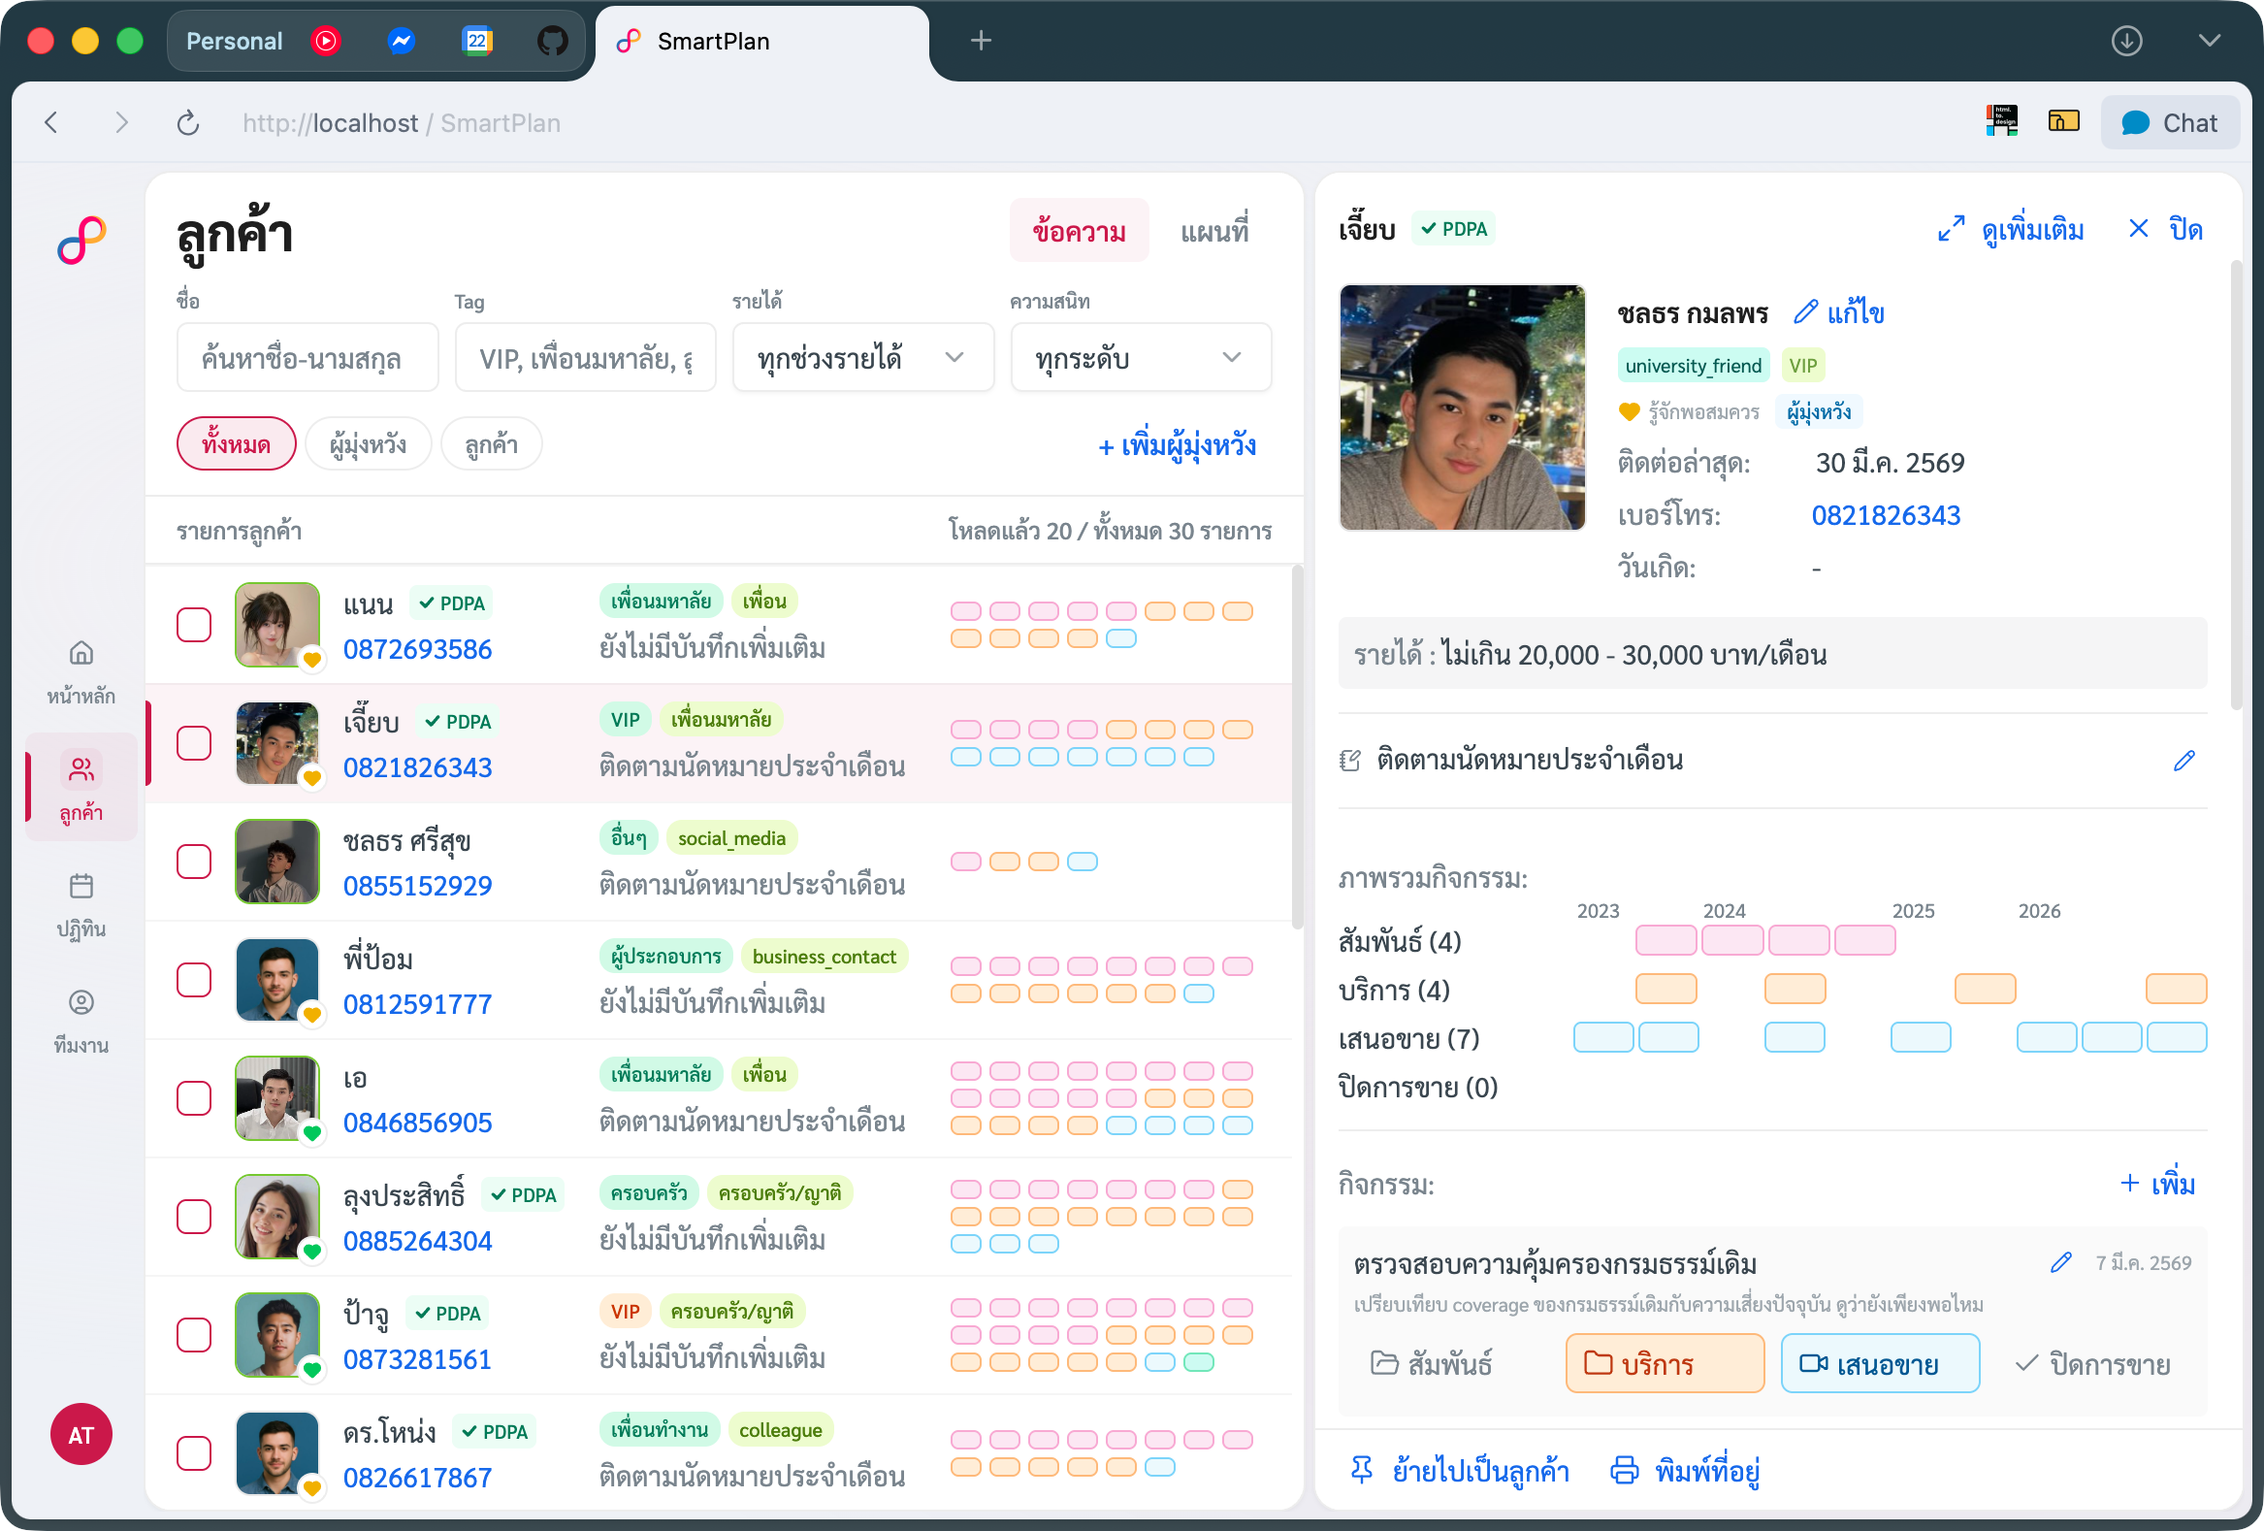
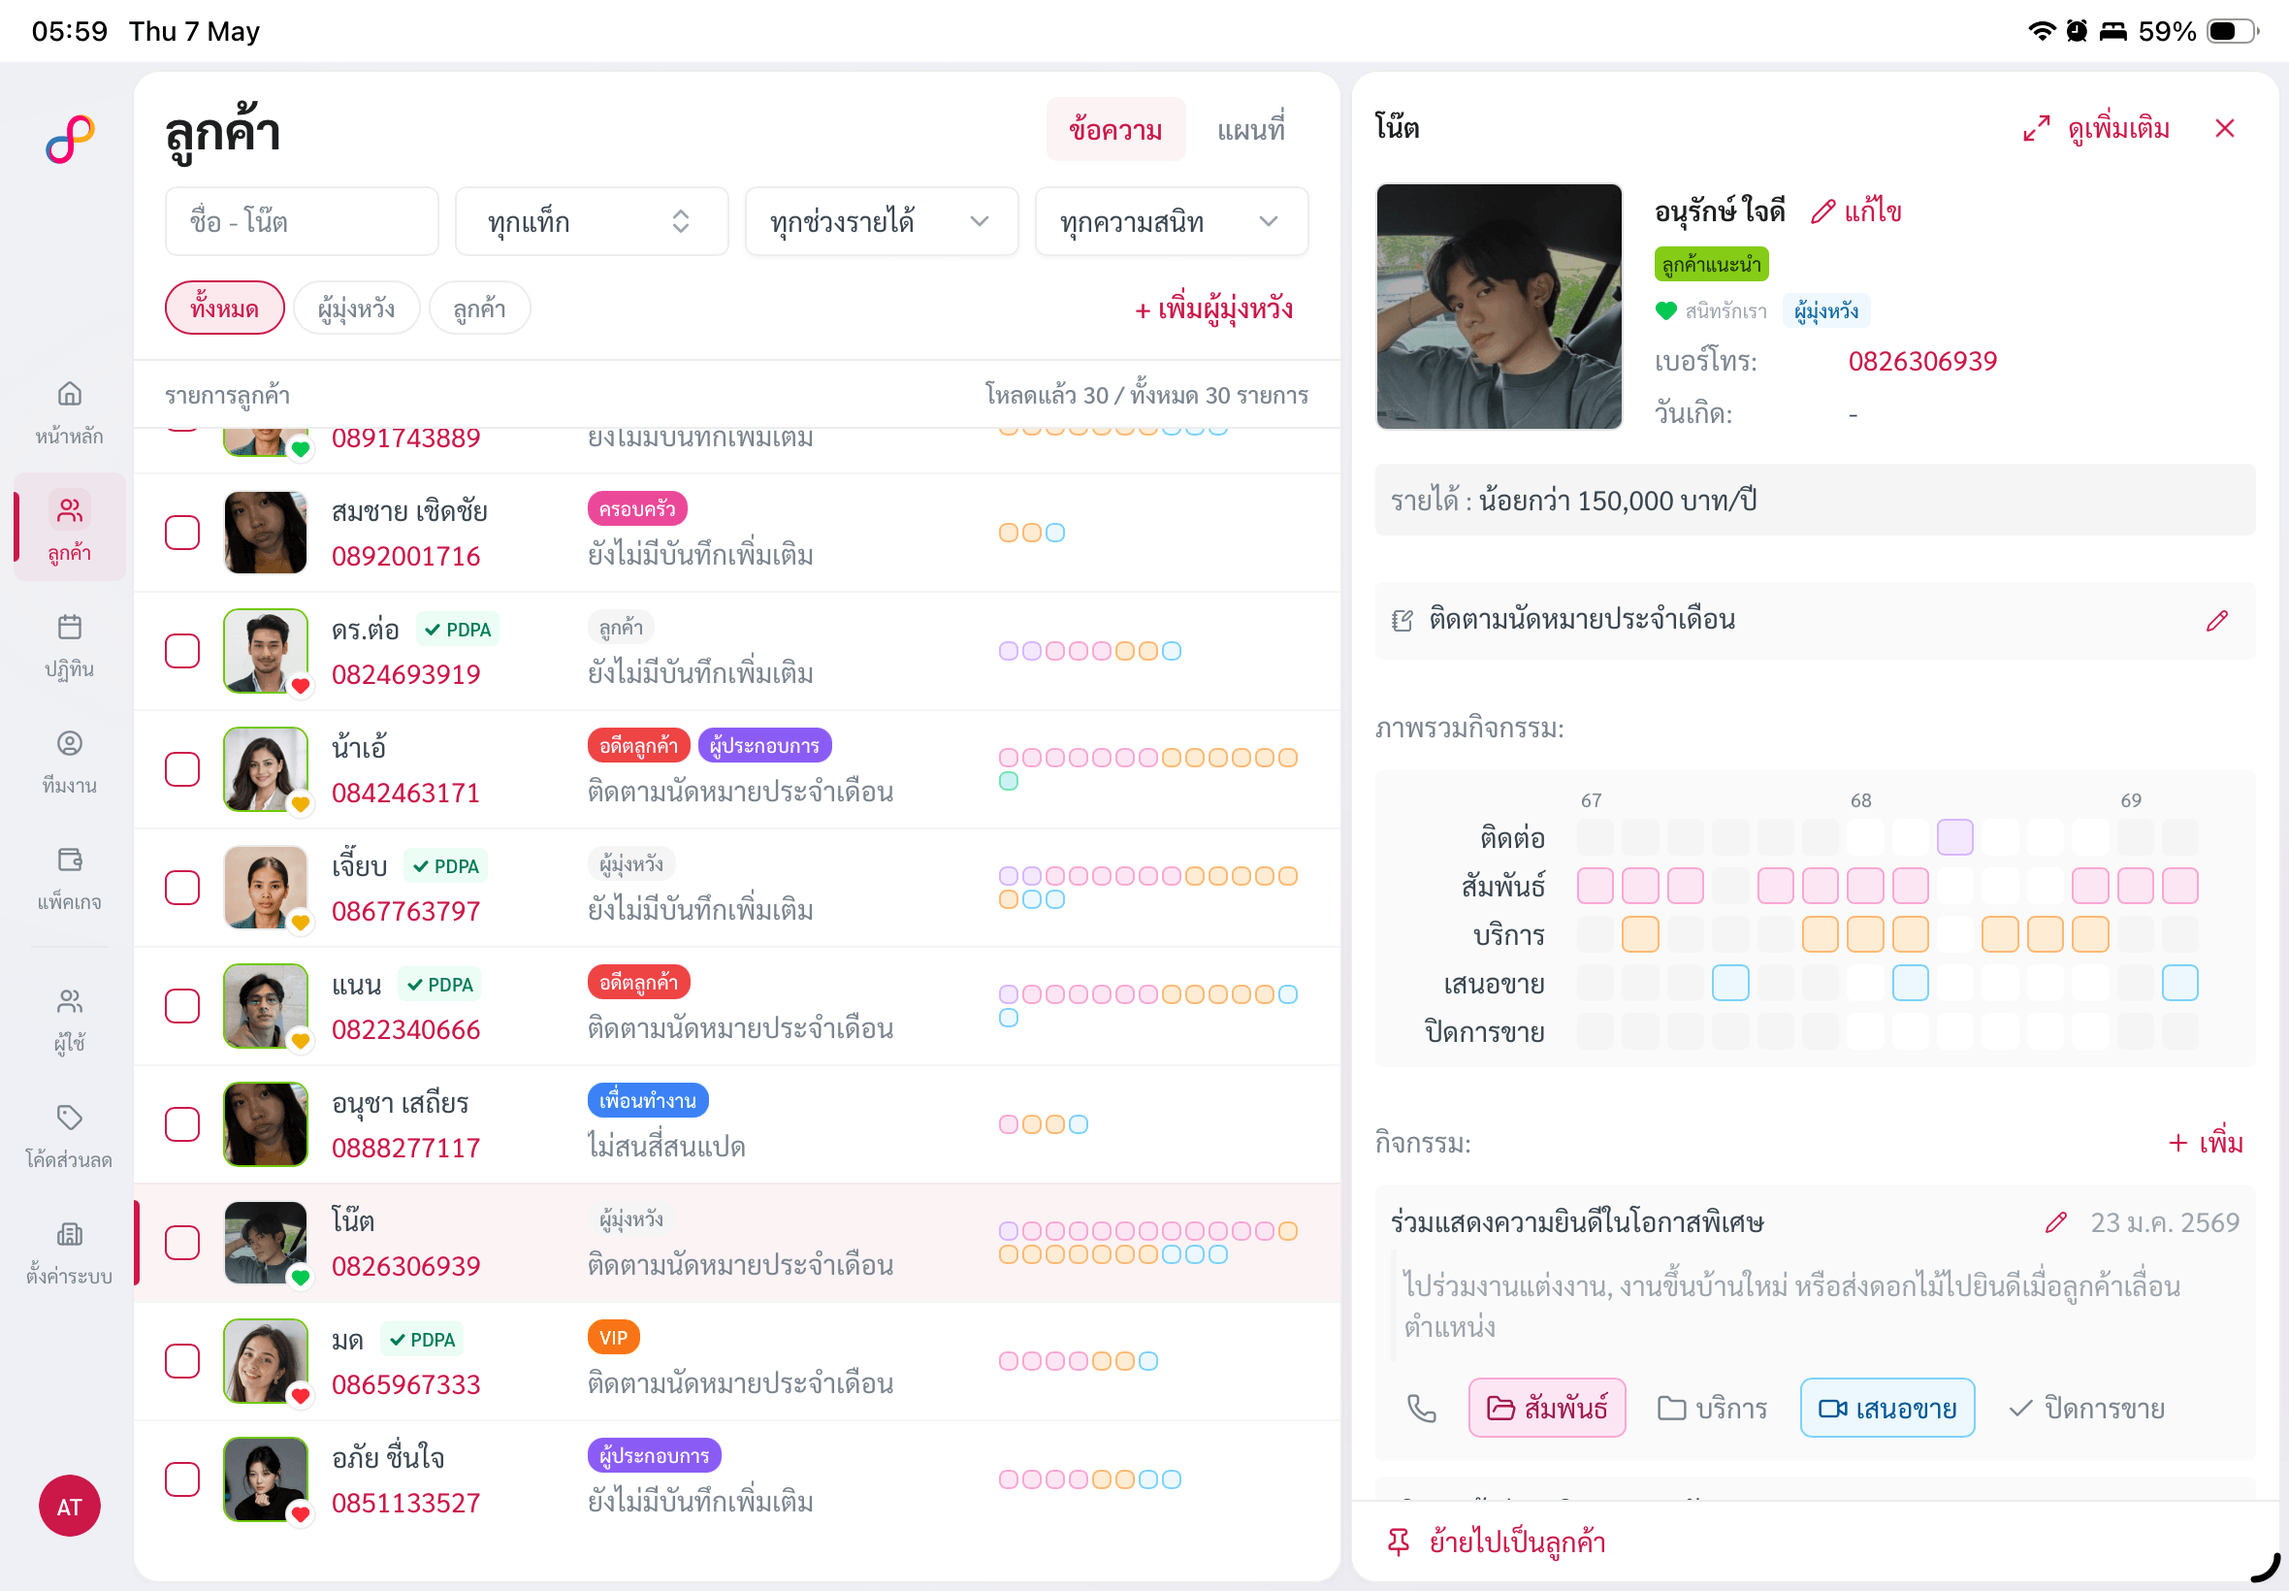
feat: Add design context and survey insights for insurance agents

diff --git a/research/survey.md b/research/survey.md
@@ -1,0 +1,45 @@
+# **SolidPlan Survey Raw Data: Insurance Agent Insights**
+
+## **1. Demographics & Experience**
+
+- [cite_start]**ช่วงอายุหลัก:** ส่วนใหญ่อยู่ในช่วง **31–40 ปี** ซึ่งเป็นกลุ่ม Digital Native ที่พร้อมเปิดรับเทคโนโลยี [cite: 2]
+- [cite_start]**ประสบการณ์การทำงาน:** กว่า **70% มีอายุงานเพียง 0–5 ปี** [cite: 2] [cite_start]และกลุ่มนี้เป็นกลุ่มหลักที่ตอบแบบสอบถามถึง **54.5%** [cite: 16]
+- [cite_start]**กลุ่มเป้าหมายรอง:** กลุ่มที่มีประสบการณ์ **20 ปีขึ้นไป** มีสัดส่วนน้อยกว่าแต่มีอำนาจในการตัดสินใจซื้อระบบสำหรับทีม [cite: 17]
+
+## **2. Pain Points (ปัญหาที่พบเจอ)**
+
+### **ด้านการขายส่วนตัว (Personal Sales)**
+
+- [cite_start]**อันดับ 1:** ไม่มีระบบวัดผลการขายของตนเอง (**57.9%**) [cite: 3]
+- [cite_start]**อันดับ 2:** ไม่มีระบบติดตามผล (Follow-up) การขาย (**52.6%**) [cite: 3]
+- [cite_start]**ผลกระทบ:** ตัวแทนลืมรายละเอียดการสนทนากับลูกค้าและพลาดโอกาสในการติดตามงานอย่างเป็นระบบ [cite: 3]
+
+### **ด้านการบริหารทีม (Team Management)**
+
+- [cite_start]**อันดับ 1:** ลูกทีมทำงานไม่สม่ำเสมอ (**66.7%**) [cite: 4]
+- [cite_start]**อันดับ 2:** ขาดระบบติดตามประสิทธิภาพการทำงาน (Performance Tracking) (**61.9%**) [cite: 4]
+- [cite_start]**ผลกระทบ:** หัวหน้าทีมไม่เห็นหน้างานจริง ทำให้การโค้ชชิ่งไม่มีประสิทธิภาพ [cite: 4]
+
+## **3. Feature Requirements & Willingness to Pay**
+
+- **ฟีเจอร์ที่ต้องการมากที่สุด:**
+  1. [cite_start]CRM ติดตามการขายของตนเอง (**38.1%**) [cite: 5]
+  2. [cite_start]ระบบสรุปข้อมูลกรมธรรม์ (**23.8%**) [cite: 7]
+- **งบประมาณที่ยอมรับได้ (Subscription):**
+  - [cite_start]**กลุ่มทั่วไป:** คาดหวังราคา **ไม่เกิน 200 บาท หรือช่วง 200–500 บาท/เดือน** [cite: 5]
+  - [cite_start]**กลุ่มพรีเมียม:** พร้อมจ่าย **501–1,000 บาท/เดือน** (มักเป็นกลุ่มอายุ 26–45 ปี) [cite: 17]
+  - [cite_start]**กลุ่ม Leader:** พร้อมจ่าย **1,001–1,500 บาท/เดือน** เพื่อใช้บริหารทีมงาน [cite: 17]
+- [cite_start]**เงื่อนไขการซื้อ:** **47.6%** ระบุว่าต้องการทดลองใช้ฟังก์ชันก่อนตัดสินใจจ่ายเงิน [cite: 7, 17]
+
+## **4. Current AI & Tool Usage (เครื่องมือที่ใช้อยู่ในปัจจุบัน)**
+
+- [cite_start]**ChatGPT:** มีผู้ใช้งานสูงสุด (**94.1%**) ใช้สำหรับคิดคำพูดปิดการขาย (**81.8%**) และสร้างคอนเทนต์ [cite: 10, 16]
+- [cite_start]**Canva:** ใช้งานสูงถึง (**82.4% - 100%**) เพื่อทำพรีเซนต์เสนอลูกค้าและสร้างสื่อโซเชียล [cite: 10, 16]
+- [cite_start]**Gemini:** ใช้งานรองลงมาที่ (**76.5%**) [cite: 16]
+- [cite_start]**NotebookLM:** เริ่มมีการใช้งาน (**23.5%**) เพื่อการวิเคราะห์ข้อมูลและสรุปความรู้ [cite: 13, 16]
+- [cite_start]**พฤติกรรมการใช้ AI:** ตัวแทนส่วนใหญ่ใช้ AI มากกว่า 2-3 เครื่องมือพร้อมกันเพื่อช่วย "คิด" และ "สร้าง" เนื้อหา [cite: 16]
+
+## **5. Analysis Conclusion for AI Analysis**
+
+- [cite_start]**Core Need:** ผู้ใช้งานไม่ได้ต้องการแค่ "ที่เก็บข้อมูล" แต่ต้องการ **"ผู้ช่วยอัจฉริยะ (AI Assistant)"** ที่ช่วยเตือนวินัย สรุปข้อมูลยาก ๆ ให้ง่าย และช่วยคิดบทสนทนาสำหรับปิดการขาย [cite: 11, 13]
+- [cite_start]**Market Gap:** ระบบ CRM ที่เชื่อมโยงกับการสร้าง Content และ AI Script Generator ที่ปรับตามโปรไฟล์ลูกค้า [cite: 18, 19]
